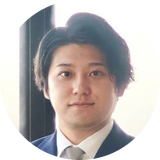
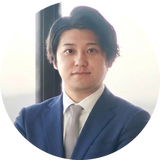
fix(demo/edubiz-tsushin): メールの1本目を縮小し、あいさつの丸写真を胸から上の画角に
- PICK UP 01 のサムネイルが本文幅いっぱい(536px)で1本目だけ極端に大きく見えたため
  460px へ縮小、見出しも21px→19px。2・3本目は400px→370pxにして比を整える。
  メールは横幅が狭いので、記事ページと同じ比率だと差が出すぎる
- あいさつの丸写真を、顔の寄り(470px四方)から胸から上が入る画角(640px四方)へ。
  80pxの円に顔だけを詰めると窮屈で証明写真のように見えていた
- DESIGN.md にこの2点を追記

diff --git a/demo/edubiz-tsushin/vol01/email.html b/demo/edubiz-tsushin/vol01/email.html
@@ -24,7 +24,7 @@
     .fluid { width: 100% !important; height: auto !important; }
     .stack { display: block !important; width: 100% !important; }
     .h1 { font-size: 24px !important; line-height: 1.5 !important; }
-    .lead-h { font-size: 19px !important; }
+    .lead-h { font-size: 18px !important; }
     .sub-h { font-size: 16px !important; }
     .avatar-cell { padding-bottom: 12px !important; }
   }
@@ -139,9 +139,9 @@
   <tr>
     <td class="pad" style="padding:34px 32px 0 32px; font-family:'Hiragino Kaku Gothic ProN','Hiragino Sans','Yu Gothic',Meiryo,sans-serif;">
       <div style="font-size:12px; font-weight:700; color:#C73E2E; letter-spacing:0.18em;">PICK UP 01</div>
-      <div class="lead-h" style="font-size:21px; font-weight:700; line-height:1.6; color:#1B2A4A; padding-top:12px;">通知表の「態度」評価が根本から変わる</div>
+      <div class="lead-h" style="font-size:19px; font-weight:700; line-height:1.6; color:#1B2A4A; padding-top:12px;">通知表の「態度」評価が根本から変わる</div>
       <div style="padding-top:16px;">
-        <a href="https://www.youtube.com/watch?v=a0YUNzc8a3U"><img class="fluid" src="https://smart-juku.syuni.jp/demo/edubiz-tsushin/vol01/images/th1.jpg" width="536" height="302" alt="通知表の「態度」評価が根本から変わる｜文科省が示した新方式「見取る姿」とは" style="display:block; width:536px; height:auto;"></a>
+        <a href="https://www.youtube.com/watch?v=a0YUNzc8a3U"><img class="fluid" src="https://smart-juku.syuni.jp/demo/edubiz-tsushin/vol01/images/th1.jpg" width="460" height="259" alt="通知表の「態度」評価が根本から変わる｜文科省が示した新方式「見取る姿」とは" style="display:block; width:460px; height:auto;"></a>
       </div>
       <div style="font-size:14px; line-height:1.95; color:#4A463F; padding-top:16px;">「主体的に学習に取り組む態度」を、A・B・Cの独立した観点として評定しない方向が、8月4日の取りまとめ案で具体化しました。ただし、学びに向かう力を見なくなるわけではありません。思考・判断・表現の学習過程で顕著かつ継続的に表れた場合に「○」を付記し、A・B・○から評定4か5を総合判断する——これが公式資料に示されたイメージです。</div>
       <div style="font-size:14px; line-height:1.95; color:#4A463F; padding-top:16px;">動画では、○を付けるときに見る「3つの姿」と、提出物や挙手回数を集める指導がなぜ主役でなくなるのかを、文科省の資料を画面に出しながら解説しています。保護者面談で成績表や内申をどう説明するか、その前提が変わる1本です。</div>
@@ -157,7 +157,7 @@
       <div style="font-size:12px; font-weight:700; color:#C73E2E; letter-spacing:0.18em;">PICK UP 02</div>
       <div class="sub-h" style="font-size:17px; font-weight:700; line-height:1.6; color:#1B2A4A; padding-top:10px;">【数学再編】A・B・C統合で何が変わる？</div>
       <div style="padding-top:14px;">
-        <a href="https://www.youtube.com/watch?v=DhD2p_t2zHk"><img class="fluid" src="https://smart-juku.syuni.jp/demo/edubiz-tsushin/vol01/images/th2.jpg" width="400" height="225" alt="【数学再編】A・B・C統合で何が変わる？｜次期学習指導要領で塾が今からやるべき対策" style="display:block; width:400px; height:auto;"></a>
+        <a href="https://www.youtube.com/watch?v=DhD2p_t2zHk"><img class="fluid" src="https://smart-juku.syuni.jp/demo/edubiz-tsushin/vol01/images/th2.jpg" width="370" height="208" alt="【数学再編】A・B・C統合で何が変わる？｜次期学習指導要領で塾が今からやるべき対策" style="display:block; width:370px; height:auto;"></a>
       </div>
       <div style="font-size:14px; line-height:1.95; color:#4A463F; padding-top:16px;">高校数学の「数学A・B・C」という3つの区分をなくし、内容を選択できる1つの新科目へ再編する案です。数学Ⅰ・Ⅱ・Ⅲは残る想定で、再編の対象は選択科目にあたる数学A・B・Cです。動画の後半は制度の話から離れ、塾が明日から変えられる3つの指導へ。この2週間で最も多く見られた1本です。</div>
       <div style="font-size:12px; color:#8B8578; padding-top:14px;">2026年8月19日公開｜13:06　<a href="https://www.youtube.com/watch?v=DhD2p_t2zHk" style="color:#8B8578; text-decoration:underline;">YouTubeで見る</a></div>
@@ -172,7 +172,7 @@
       <div style="font-size:12px; font-weight:700; color:#C73E2E; letter-spacing:0.18em;">PICK UP 03</div>
       <div class="sub-h" style="font-size:17px; font-weight:700; line-height:1.6; color:#1B2A4A; padding-top:10px;">不登校の成績評価が変わる？「4※」と内申・高校入試への影響</div>
       <div style="padding-top:14px;">
-        <a href="https://www.youtube.com/watch?v=-cCJrVi7p0o"><img class="fluid" src="https://smart-juku.syuni.jp/demo/edubiz-tsushin/vol01/images/th3.jpg" width="400" height="225" alt="【文科省案】不登校の成績評価が変わる？「4※」と内申・高校入試への影響" style="display:block; width:400px; height:auto;"></a>
+        <a href="https://www.youtube.com/watch?v=-cCJrVi7p0o"><img class="fluid" src="https://smart-juku.syuni.jp/demo/edubiz-tsushin/vol01/images/th3.jpg" width="370" height="208" alt="【文科省案】不登校の成績評価が変わる？「4※」と内申・高校入試への影響" style="display:block; width:370px; height:auto;"></a>
       </div>
       <div style="font-size:14px; line-height:1.95; color:#4A463F; padding-top:16px;">自宅やフリースクールで続けた学習は、「出席扱い」の先でどう評価されるのか。案では通常の評価、「※」付きの評価、記述評価という3つの方法が整理されています。注意したいのは、「4※」が通常の評定4と同じ意味ではないこと。24分と長めですが、該当する生徒がいる教室では通しで見る価値があります。</div>
       <div style="font-size:12px; color:#8B8578; padding-top:14px;">2026年8月12日公開｜24:36　<a href="https://www.youtube.com/watch?v=-cCJrVi7p0o" style="color:#8B8578; text-decoration:underline;">YouTubeで見る</a></div>

diff --git a/demo/edubiz-tsushin/DESIGN.md b/demo/edubiz-tsushin/DESIGN.md
@@ -199,8 +199,12 @@ Georgia は本編の通し番号の数字だけに限る（楕円の中の 1・2
 - 動画は**埋め込まない**。サムネイル画像をYouTubeへのリンクにする（メールでは再生できない）
 - 丸写真は**あらかじめ丸くマスクして白背景を焼き込んだPNG**を使う。
   `border-radius` はOutlookで効かず四角になる
-- 階層の付け方は記事ページと同じ。**1本目 536px / 2・3本目 400px**、
-  見出し 21px / 17px
+- 階層の付け方は記事ページと同じ。**1本目 460px / 2・3本目 370px**、
+  見出し 19px / 17px。
+  **1本目を本文幅いっぱい（536px）にしない。**メールは横幅が狭いので、
+  記事ページと同じ比率にすると1本目だけ極端に大きく見える（2026-08-24 に 536→460 へ）
+- あいさつの丸写真は、顔の寄りではなく**胸から上**が入る範囲で切り抜く。
+  80pxの円に顔だけを詰めると窮屈で、証明写真のように見える
 
 ### 禁止
 
